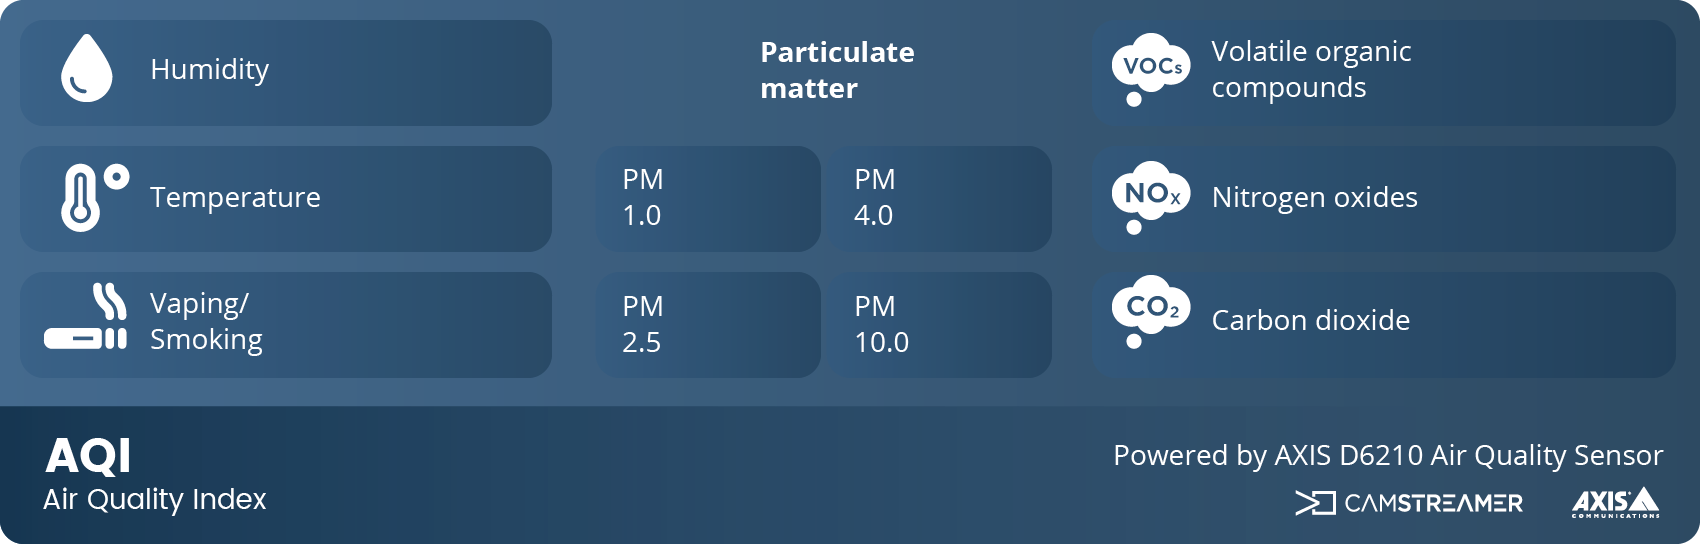
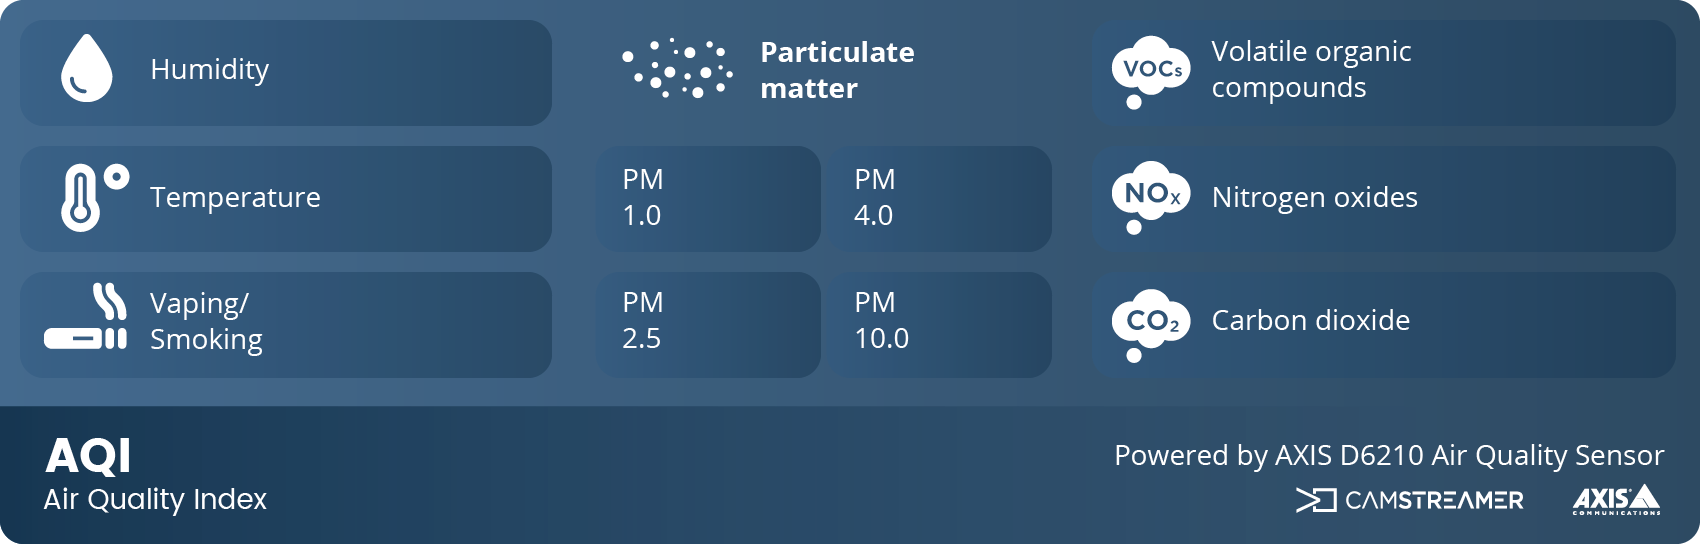
update: remove gif, new bg and positioning

diff --git a/axisAirQualitySensor/src/graphics/Widget.ts b/axisAirQualitySensor/src/graphics/Widget.ts
@@ -44,9 +44,6 @@ export class Widget {
             if (this.background === undefined) {
                 this.background = await this.uploadImage('background/axis-air-quality-widget.png');
             }
-            if (this.gif === undefined) {
-                this.gif = await this.uploadImage('background/dust.gif');
-            }
             await this.renderWidget(data, `°${unit}`, this.cod);
         } catch (err) {
             console.error(err);
@@ -104,66 +101,60 @@ export class Widget {
             void cod.cairo('cairo_paint', cairo);
         }
 
-        // Draw the gif
-        if (this.gif) {
-            void cod.cairo('cairo_set_source_surface', cairo, this.gif, POS.centerLeftColumn - 30, POS.firstRow - 10);
-            void cod.cairo('cairo_paint', cairo);
-        }
-
         void cod.cairo('cairo_set_font_face', cairo, this.fontBold);
 
         // Draw severity lines
-        this.drawLine(cod, cairo, 40, 540, 120, SEVERITY[data.Humidity.severity]);
-        this.drawLine(cod, cairo, 40, 540, 250, SEVERITY[data.Temperature.severity]);
-        this.drawLine(cod, cairo, 40, 540, 370, SEVERITY[data.Vaping.severity]);
+        this.drawLine(cod, cairo, 43, 533, 121, SEVERITY[data.Humidity.severity]);
+        this.drawLine(cod, cairo, 43, 533, 247, SEVERITY[data.Temperature.severity]);
+        this.drawLine(cod, cairo, 43, 533, 373, SEVERITY[data.Vaping.severity]);
 
-        this.drawLine(cod, cairo, 620, 800, 250, SEVERITY[data['PM1.0'].severity]);
-        this.drawLine(cod, cairo, 620, 800, 370, SEVERITY[data['PM2.5'].severity]);
-        this.drawLine(cod, cairo, 850, 1030, 250, SEVERITY[data['PM4.0'].severity]);
-        this.drawLine(cod, cairo, 850, 1030, 370, SEVERITY[data['PM10.0'].severity]);
+        this.drawLine(cod, cairo, 620, 800, 247, SEVERITY[data['PM1.0'].severity]);
+        this.drawLine(cod, cairo, 620, 800, 373, SEVERITY[data['PM2.5'].severity]);
+        this.drawLine(cod, cairo, 850, 1030, 247, SEVERITY[data['PM4.0'].severity]);
+        this.drawLine(cod, cairo, 850, 1030, 373, SEVERITY[data['PM10.0'].severity]);
 
-        this.drawLine(cod, cairo, 1100, 1650, 120, SEVERITY[data.VOC.severity]);
-        this.drawLine(cod, cairo, 1100, 1650, 250, SEVERITY[data.NOx.severity]);
-        this.drawLine(cod, cairo, 1100, 1650, 370, SEVERITY[data.CO2.severity]);
+        this.drawLine(cod, cairo, 1109, 1650, 120, SEVERITY[data.VOC.severity]);
+        this.drawLine(cod, cairo, 1109, 1650, 247, SEVERITY[data.NOx.severity]);
+        this.drawLine(cod, cairo, 1109, 1650, 373, SEVERITY[data.CO2.severity]);
 
         this.drawLine(cod, cairo, 40, 800, 540, SEVERITY[data.AQI.severity]);
 
         // Write texts
         void cod.cairo('cairo_set_font_face', cairo, this.fontBold);
-        this.writeText(cod, cairo, data.Humidity.value, POS.leftColumn, POS.firstRow);
-        this.writeText(cod, cairo, data.Temperature.value, POS.leftColumn, POS.secondRow);
+        this.writeText(cod, cairo, data.Humidity.value, 260, POS.firstRow);
+        this.writeText(cod, cairo, data.Temperature.value, 260, POS.secondRow);
 
-        this.writeText(cod, cairo, data['PM1.0'].value, POS.centerLeftColumn, POS.secondRow);
-        this.writeText(cod, cairo, data['PM2.5'].value, POS.centerLeftColumn, POS.thirdRow);
-        this.writeText(cod, cairo, data['PM4.0'].value, POS.centerRightColumn, POS.secondRow);
-        this.writeText(cod, cairo, data['PM10.0'].value, POS.centerRightColumn, POS.thirdRow);
+        this.writeText(cod, cairo, data['PM1.0'].value, 600, POS.secondRow);
+        this.writeText(cod, cairo, data['PM2.5'].value, 600, POS.thirdRow);
+        this.writeText(cod, cairo, data['PM4.0'].value, 830, POS.secondRow);
+        this.writeText(cod, cairo, data['PM10.0'].value, 830, POS.thirdRow);
 
-        this.writeText(cod, cairo, data.VOC.value, POS.rightColumn, POS.firstRow);
-        this.writeText(cod, cairo, data.NOx.value, POS.rightColumn, POS.secondRow);
-        this.writeText(cod, cairo, data.CO2.value, POS.rightColumn, POS.thirdRow);
+        this.writeText(cod, cairo, data.VOC.value, 1380, POS.firstRow);
+        this.writeText(cod, cairo, data.NOx.value, 1380, POS.secondRow);
+        this.writeText(cod, cairo, data.CO2.value, 1380, POS.thirdRow);
 
         this.writeText(
             cod,
             cairo,
             data.AQI.value === 0 ? 'Calculating' : data.AQI.value.toString(),
-            POS.leftColumn + 50,
+            350,
             POS.fourthRow
         );
 
         void cod.cairo('cairo_set_font_face', cairo, this.fontRegular);
 
-        this.writeText(cod, cairo, '%RH', POS.leftColumn + 100, 50, 'small');
-        this.writeText(cod, cairo, GRAM_UNIT, POS.centerRightColumn, 50, 'small');
+        this.writeText(cod, cairo, '%RH', 470, 50, 'small');
+        this.writeText(cod, cairo, GRAM_UNIT, 940, 50, 'small');
         this.writeText(
             cod,
             cairo,
             data.Vaping.value === 0 ? 'UNDETECTED' : 'DETECTED',
-            POS.leftColumn + 10,
+            330,
             POS.thirdRow + 15,
             'small'
         );
-        this.writeText(cod, cairo, unit, POS.leftColumn + 100, 170, 'small');
-        this.writeText(cod, cairo, 'ppm', POS.rightColumn + 105, POS.thirdRow + 10, 'small');
+        this.writeText(cod, cairo, unit, 470, 170, 'small');
+        this.writeText(cod, cairo, 'ppm', 1450, POS.thirdRow + 10, 'small', true);
 
         const pos = this.computePosition(
             this.widgetSettings.coord_system,
@@ -223,16 +214,17 @@ export class Widget {
         value: number | string,
         posX: number,
         posY: number,
-        fontSize?: string
+        fontSize?: string,
+        ppm?: boolean
     ) {
         void cod.writeText(
             cairo,
             value.toString(),
             posX,
             posY,
-            200, // width of the text box?
+            200,
             fontSize === 'small' ? FONT.small : FONT.big,
-            'A_CENTER',
+            fontSize === 'small' ? (ppm ? 'A_RIGHT' : 'A_LEFT') : 'A_RIGHT',
             'TFM_SCALE'
         );
     }

diff --git a/axisAirQualitySensor/src/main.ts b/axisAirQualitySensor/src/main.ts
@@ -81,7 +81,6 @@ async function watchAirQualityData() {
 
                 const shouldUpdate = shouldUpdateWidget();
                 if (shouldUpdate) {
-                    console.log('update');
                     widget?.displayWidget(data, unit);
                 }
             } catch (err) {

diff --git a/axisAirQualitySensor/src/constants.ts b/axisAirQualitySensor/src/constants.ts
@@ -136,10 +136,6 @@ export const FONT = {
 };
 
 export const POS = {
-    leftColumn: 300,
-    centerLeftColumn: 650,
-    centerRightColumn: 880,
-    rightColumn: 1400,
     firstRow: 40,
     secondRow: 165,
     thirdRow: 290,
